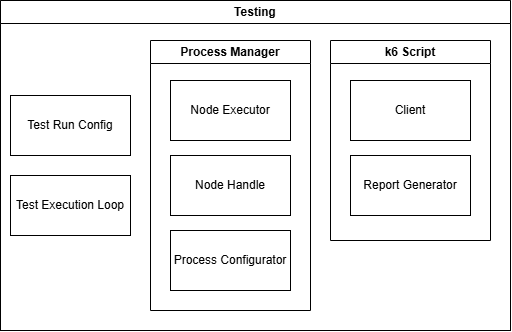
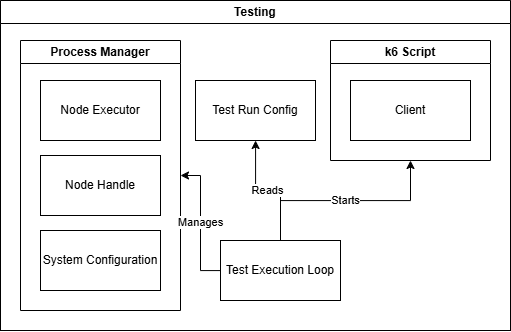
feat: improved graph

diff --git a/src/chapters/chapter-3/rancangan/04-08-detail-testing.tex b/src/chapters/chapter-3/rancangan/04-08-detail-testing.tex
@@ -1,13 +1,13 @@
 \subsubsection{Rancangan Detail Komponen Testing}
 \label{subsubsection:detail-data-testing}
 
-Komponen \textit{testing} bertanggung jawab untuk melakukan pengujian terhadap sistem yang telah dibangun. Pengujian ini juga bertujuan menghasilkan data analisis. Ilustrasi struktur komponen \textit{testing} dapat dilihat pada gambar \ref{fig:testing-structure}.
+Komponen \textit{testing} bertanggung jawab untuk melakukan pengujian terhadap sistem yang telah dibangun. Pengujian ini juga bertujuan menghasilkan data analisis. Komponen \textit{testing} dapat mengatur variabel melalui \textit{Test Run Config}. Variabel ini kemudian digunakan untuk membuat \textit{Test Execution Loop} yang akan mengeksekusi semua kombinasi dari variabel yang telah ditentukan. Dalam setiap iterasi dari \textit{Test Execution Loop} akan membangun sistem menggunakan \textit{Process Manager}. \textit{Process Manager} akan mengelola proses sistem yang akan diuji dengan masing-masing \textit{Node} berada pada proses yang berbeda. Setelah sistem dibangun, \textit{Process Manager} akan mengirimkan perintah untuk memulai sistem dan menyimpan \textit{PID} dari setiap proses yang berjalan. Pengujian akan dilakukan dengan k6 yang akan mengirimkan \textit{request} ke sistem yang sedang diuji. Ilustrasi struktur komponen \textit{testing} dapat dilihat pada gambar \ref{fig:testing-structure}.
 
 \begin{figure}[ht]
     \centering
-    \includegraphics[width=0.55\textwidth]{resources/chapter-3/testing-architecture.png}
+    \includegraphics[width=0.65\textwidth]{resources/chapter-3/testing-architecture.png}
     \caption{Struktur Komponen Testing}
     \label{fig:testing-structure}
 \end{figure}
 
-Komponen \textit{testing} dapat mengatur variabel melalui \textit{Test Run Config}. Variabel ini kemudian digunakan untuk membuat \textit{Test Execution Loop} yang akan mengeksekusi semua kombinasi dari variabel yang telah ditentukan. Dalam setiap iterasi dari \textit{Test Execution Loop} akan membangun sistem menggunakan \textit{Process Manager}. \textit{Process Manager} akan mengelola proses sistem yang akan diuji dengan masing-masing \textit{Node} berada pada proses yang berbeda. Setelah sistem dibangun, \textit{Process Manager} akan mengirimkan perintah untuk memulai sistem dan menyimpan \textit{PID} dari setiap proses yang berjalan. Pengujian akan dilakukan dengan k6 yang akan mengirimkan \textit{request} ke sistem yang sedang diuji. Setelah pengujian selesai, \textit{Process Manager} akan mengirimkan perintah untuk menghancurkan sistem yang diuji dan membuat ulang dengan konfigurasi selanjutnya.
+Setelah pengujian selesai, \textit{Process Manager} akan mengirimkan perintah untuk menghancurkan sistem yang diuji dan membuat ulang dengan konfigurasi selanjutnya. Pengujian akan diulang hingga semua kombinasi dari variabel yang telah ditentukan selesai dieksekusi.

diff --git a/src/chapters/chapter-3/rancangan/04-09-detail-logging.tex b/src/chapters/chapter-3/rancangan/04-09-detail-logging.tex
@@ -1,13 +1,13 @@
 \subsubsection{Rancangan Detail Komponen Log Management}
 \label{subsubsection:detail-data-log-management}
 
-Komponen \textit{logging} dan \textit{tracing} bertanggung jawab untuk mencatat dan melacak aktivitas sistem. Komponen ini akan mengumpulkan data dari berbagai komponen lain dalam sistem, termasuk informasi tentang permintaan yang diterima, respons yang dikirim, dan status sistem secara keseluruhan. Data ini kemudian akan digunakan untuk analisis lebih lanjut. Ilustrasi struktur komponen \textit{log management}dapat dilihat pada gambar \ref{fig:log-management-structure}.
+Komponen \textit{logging} dan \textit{tracing} bertanggung jawab untuk mencatat dan melacak aktivitas sistem. Komponen ini akan mengumpulkan data dari berbagai komponen lain dalam sistem, termasuk informasi tentang permintaan yang diterima, respons yang dikirim, dan status sistem secara keseluruhan. Ilustrasi struktur komponen \textit{log management} dapat dilihat pada gambar \ref{fig:log-management-structure}.
 
 \begin{figure}[ht]
     \centering
-    \includegraphics[width=0.4\textwidth]{resources/chapter-3/log-management-architecture.png}
+    \includegraphics[width=0.65\textwidth]{resources/chapter-3/log-management-architecture.png}
     \caption{Struktur Komponen Log Management}
     \label{fig:log-management-structure}
 \end{figure}
 
-Tugas komponen \textit{log management} relatif sederhana, yaitu mengumpulkan data dari hasil \textit{log} yang dihasilkan \textit{node} lalu membangun laporan dari data tersebut yang dapat dikelola. Selain itu, komponen ini juga mengotomasi organisasi data yang dihasilkan dari \textit{testing}.
+Tugas komponen \textit{log management} relatif sederhana, yaitu mengumpulkan data dari hasil \textit{log} yang dihasilkan \textit{node} lalu membangun laporan dari data tersebut yang dapat dikelola. Selain itu, komponen ini juga mengotomasi organisasi data yang dihasilkan dari \textit{testing}. Data ini kemudian akan digunakan untuk analisis lebih lanjut.

diff --git a/src/chapters/chapter-3/rancangan/04-04-detail-internode-interface.tex b/src/chapters/chapter-3/rancangan/04-04-detail-internode-interface.tex
@@ -5,7 +5,7 @@ Komponen komunikasi antarnode bertanggung jawab untuk mengelola komunikasi antar
 
 \begin{figure}[ht]
     \centering
-    \includegraphics[width=0.4\textwidth]{resources/chapter-3/internode-interface-component.png}
+    \includegraphics[width=0.45\textwidth]{resources/chapter-3/internode-interface-component.png}
     \caption{Komponen Antarmuka Komunikasi Antarnode}
     \label{fig:internode-interface-component}
 \end{figure}

diff --git a/src/chapters/chapter-3/rancangan/04-03-detail-client-interface.tex b/src/chapters/chapter-3/rancangan/04-03-detail-client-interface.tex
@@ -5,7 +5,7 @@ Antarmuka \textit{client} bertanggung jawab untuk menyediakan akses ke sistem ba
 
 \begin{figure}[ht]
     \centering
-    \includegraphics[width=0.4\textwidth]{resources/chapter-3/client-interface-component.png}
+    \includegraphics[width=0.45\textwidth]{resources/chapter-3/client-interface-component.png}
     \caption{Komponen Antarmuka Client}
     \label{fig:client-interface-component}
 \end{figure}

diff --git a/src/chapters/chapter-3/rancangan/04-07-detail-data-collector.tex b/src/chapters/chapter-3/rancangan/04-07-detail-data-collector.tex
@@ -5,7 +5,7 @@ Seperti yang sudah dijelaskan pada bagian \ref{subsubsection:data-collector}, \t
 
 \begin{figure}[ht]
     \centering
-    \includegraphics[width=0.55\textwidth]{resources/chapter-3/data-collector-architecture.png}
+    \includegraphics[width=0.75\textwidth]{resources/chapter-3/data-collector-architecture.png}
     \caption{Struktur Data Collector}
     \label{fig:data-collector-structure}
 \end{figure}

diff --git a/src/chapters/chapter-3/rancangan/04-02-detail-konsensus.tex b/src/chapters/chapter-3/rancangan/04-02-detail-konsensus.tex
@@ -7,7 +7,7 @@ Algoritma yang digunakan dalam komponen konsensus sesuai pertimbangan di bagian 
 
 \begin{figure}[ht]
     \centering
-    \includegraphics[width=0.95\textwidth]{resources/chapter-3/consensus-architecture.png}
+    \includegraphics[width=0.85\textwidth]{resources/chapter-3/consensus-architecture.png}
     \caption{Struktur Komponen Konsensus}
     \label{fig:consensus-component-structure}
 \end{figure}

diff --git a/src/chapters/chapter-3/rancangan/04-06-detail-memory-store.tex b/src/chapters/chapter-3/rancangan/04-06-detail-memory-store.tex
@@ -6,6 +6,6 @@ Komponen \textit{In-Memory Store} bertanggung jawab untuk menyimpan data secara 
 \begin{figure}[ht]
     \centering
     \includegraphics[width=0.4\textwidth]{resources/chapter-3/in-memory-store-component.png}
-    \caption{Struktur Komponen Penyimpanan Dalam Memori}
+    \caption{Struktur Komponen In-Memory Store}
     \label{fig:in-memory-store-component}
 \end{figure}

diff --git a/src/chapters/chapter-3/rancangan/04-05-detail-persistent-store.tex b/src/chapters/chapter-3/rancangan/04-05-detail-persistent-store.tex
@@ -6,6 +6,6 @@ Komponen \textit{Persistent Store} bertanggung jawab untuk menyimpan data secara
 \begin{figure}[ht]
     \centering
     \includegraphics[width=0.4\textwidth]{resources/chapter-3/persistent-store-component.png}
-    \caption{Struktur Komponen Komunikasi Antar-Node}
+    \caption{Komponen Persistent Store}
     \label{fig:persistent-store-component}
 \end{figure}
